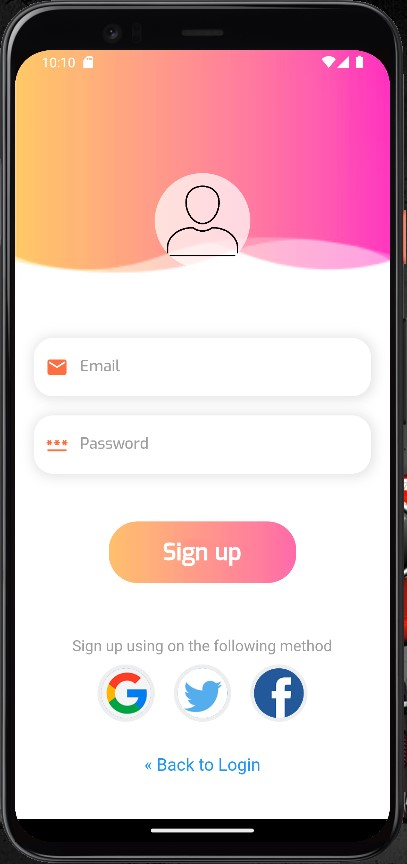
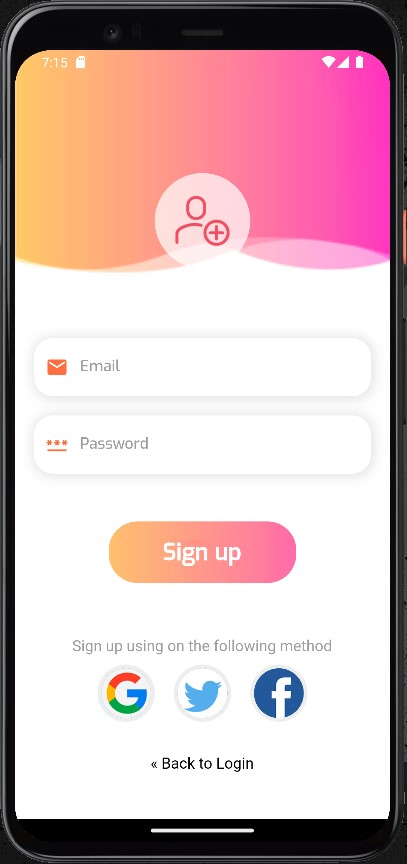
feat: update register page profile picture

diff --git a/lib/screens/register.dart b/lib/screens/register.dart
@@ -49,8 +49,8 @@ class RegisterPageState extends State<RegisterPage> {
       text: TextSpan(
         text: AppLocalizations.of(context).translate(key: AppLang.backToLogin),
         style: const TextStyle(
-          color: Colors.blue,
-          fontSize: 18,
+          color: Colors.black,
+          fontSize: 16,
         ),
         recognizer: TapGestureRecognizer()
           ..onTap = () {
@@ -204,8 +204,7 @@ class RegisterPageState extends State<RegisterPage> {
             hintText:
                 AppLocalizations.of(context).translate(key: AppLang.password),
             hintStyle: const TextStyle(color: Colors.grey),
-            prefixIcon:
-                const Icon(Icons.password, color: tdDeepOrangeAccent),
+            prefixIcon: const Icon(Icons.password, color: tdDeepOrangeAccent),
             focusedBorder: OutlineInputBorder(
               borderRadius: BorderRadius.circular(20),
               borderSide: const BorderSide(color: Colors.white, width: 1.0),
